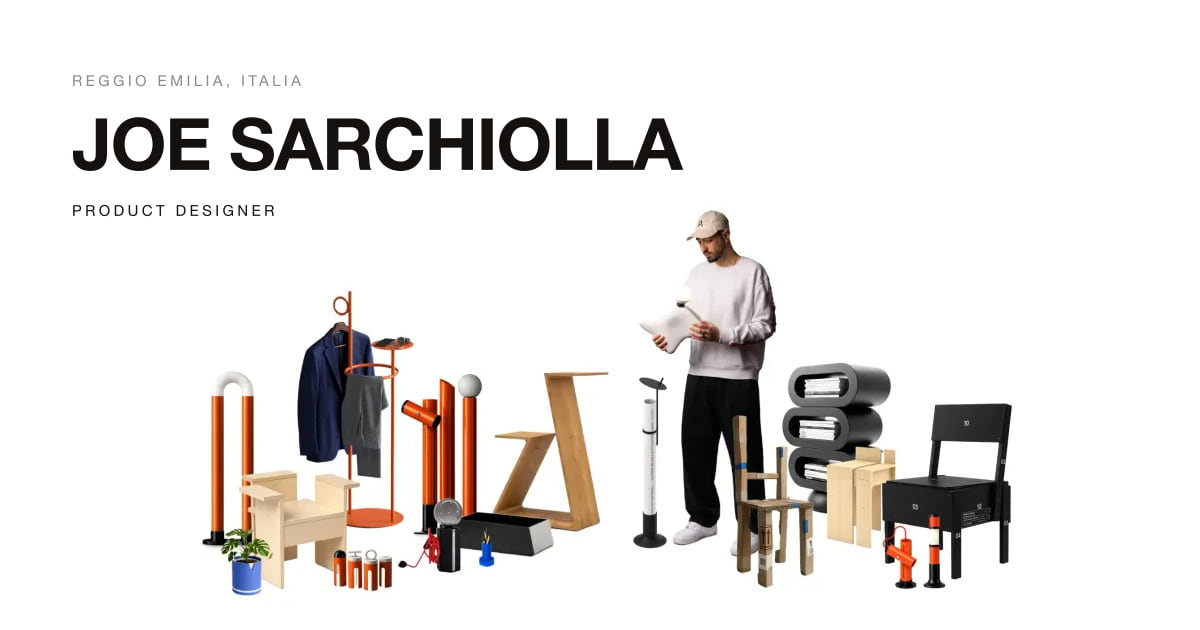
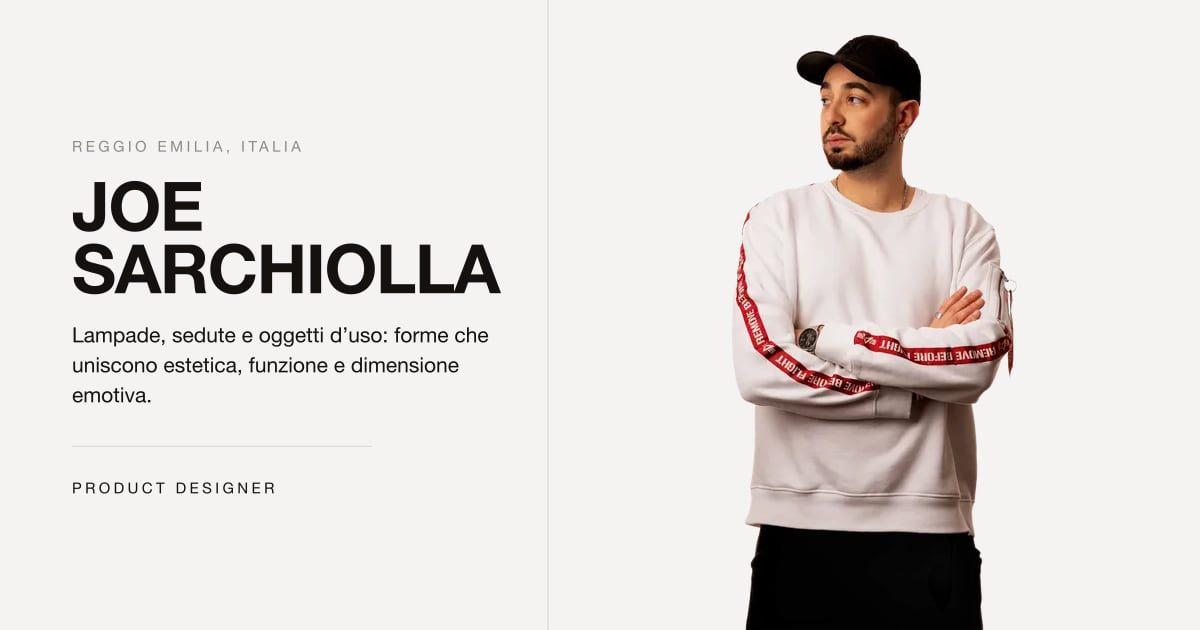
chore: update

diff --git a/scripts/og-image.js b/scripts/og-image.js
@@ -59,19 +59,38 @@ const ADV = {
   0: 556, 1: 556, 2: 556, 3: 556, 4: 556, 5: 556, 6: 556, 7: 556, 8: 556, 9: 556,
 }
 
+/*
+ * Le stesse misure in Helvetica regular, minuscole comprese: la riga di
+ * descrizione non è un titolo, si scrive come si parla e va a capo su parole
+ * normali. Con la tabella del grassetto maiuscolo andrebbe a capo troppo
+ * presto, lasciando righe corte in mezzo al vuoto.
+ */
+const ADV_TESTO = {
+  a: 556, b: 556, c: 500, d: 556, e: 556, f: 278, g: 556, h: 556, i: 222,
+  j: 222, k: 500, l: 222, m: 833, n: 556, o: 556, p: 556, q: 556, r: 333,
+  s: 500, t: 278, u: 556, v: 500, w: 722, x: 500, y: 500, z: 500,
+  à: 556, è: 556, é: 556, ì: 556, ò: 556, ù: 556,
+  A: 667, B: 667, C: 722, D: 722, E: 667, F: 611, G: 778, H: 722, I: 278,
+  J: 500, K: 667, L: 556, M: 833, N: 722, O: 778, P: 667, Q: 778, R: 722,
+  S: 667, T: 611, U: 722, V: 667, W: 944, X: 667, Y: 667, Z: 611,
+  ' ': 278, '.': 278, ',': 278, ':': 278, ';': 278, '·': 350, '-': 333,
+  '–': 556, '’': 191, '(': 333, ')': 333,
+  0: 556, 1: 556, 2: 556, 3: 556, 4: 556, 5: 556, 6: 556, 7: 556, 8: 556, 9: 556,
+}
+
 /* `tracking` in em (negativo = lettere più strette, come nei titoli del sito). */
-function larghezza(testo, fontSize, tracking = 0) {
+function larghezza(testo, fontSize, tracking = 0, tabella = ADV) {
   let em = 0
-  for (const ch of String(testo)) em += (ADV[ch] ?? 700) / 1000 + tracking
+  for (const ch of String(testo)) em += (tabella[ch] ?? 700) / 1000 + tracking
   return em * fontSize
 }
 
-function aCapo(testo, fontSize, maxW, tracking) {
+function aCapo(testo, fontSize, maxW, tracking, tabella = ADV) {
   const righe = []
   let corrente = ''
   for (const parola of String(testo).split(/\s+/)) {
     const prova = corrente ? `${corrente} ${parola}` : parola
-    if (corrente && larghezza(prova, fontSize, tracking) > maxW) {
+    if (corrente && larghezza(prova, fontSize, tracking, tabella) > maxW) {
       righe.push(corrente)
       corrente = parola
     } else {
@@ -105,32 +124,60 @@ function occhiello(testo, x, y, colore = MUTED) {
 
 /* ---------------------------------------------------------------------------
  * Impianto 1 — testo a sinistra, immagine contenuta a destra.
- * Usato dalle schede progetto e da "Chi sono".
+ * Usato dalle schede progetto, da "Chi sono" e dalla home.
+ *
+ * `descrizione` è facoltativa: una o due righe fra il titolo e il filetto, per
+ * dire in chiaro di cosa si tratta. La porta la home, dove l'anteprima del
+ * link è la prima cosa che si vede del lavoro; le schede no, che il titolo
+ * del progetto e la sua foto bastano.
  * ------------------------------------------------------------------------- */
-async function schedaConImmagine({ sorgente, categoria, titolo, coda, dest }) {
+async function schedaConImmagine({
+  sorgente,
+  categoria,
+  titolo,
+  descrizione,
+  coda,
+  ancoraInBasso = false,
+  dest,
+}) {
   const TESTO_X = 72
   const TESTO_MAX = 452
   const BOX = { x: 596, y: 46, w: 556, h: 538 } // area dell'immagine
 
-  const { size, righe, tracking } = titoloAdattato(titolo.toUpperCase(), { maxW: TESTO_MAX })
+  const { size, righe, tracking } = titoloAdattato(titolo.toUpperCase(), {
+    maxW: TESTO_MAX,
+    // Con la descrizione sotto, il titolo lascia spazio invece di prendersi
+    // tutta l'altezza: due righe al massimo, corpo un po' più contenuto.
+    ...(descrizione ? { maxRighe: 2, max: 68 } : null),
+  })
+
+  const DESC_SIZE = 21
+  const DESC_INTERLINEA = 30
+  const righeDesc = descrizione
+    ? aCapo(descrizione, DESC_SIZE, TESTO_MAX, 0, ADV_TESTO)
+    : []
+  const altezzaDesc = righeDesc.length
+    ? 34 + (righeDesc.length - 1) * DESC_INTERLINEA + DESC_SIZE * 0.72
+    : 0
 
   /*
    * Ritmo verticale. Le altezze si calcolano tutte prima, così il blocco
-   * (occhiello · titolo · filetto · firma) può essere centrato sull'altezza
-   * che occupa davvero: un titolo su tre righe scende quanto serve senza
-   * scavalcare l'occhiello.
+   * (occhiello · titolo · descrizione · filetto · firma) può essere centrato
+   * sull'altezza che occupa davvero: un titolo su tre righe scende quanto
+   * serve senza scavalcare l'occhiello.
    * `capH` è l'altezza delle maiuscole: in un testo SVG la y è la linea di
    * base, non il bordo superiore.
    */
   const capH = size * 0.72
   const interlinea = size * 0.92
   const altezzaTitolo = (righe.length - 1) * interlinea + capH
-  const blocco = 15 + 30 + altezzaTitolo + 44 + 32 + 15
+  const blocco = 15 + 30 + altezzaTitolo + altezzaDesc + 44 + 32 + 15
 
   let y = (H - blocco) / 2
   const occhielloY = y + 15
   const primaBaseline = y + 15 + 30 + capH
-  const filettoY = y + 15 + 30 + altezzaTitolo + 44
+  const primaDesc = y + 15 + 30 + altezzaTitolo + 34 + DESC_SIZE * 0.72
+  const filettoY = y + 15 + 30 + altezzaTitolo + altezzaDesc + 44
   const codaY = filettoY + 32 + 15
 
   const righeSvg = righe
@@ -142,22 +189,47 @@ async function schedaConImmagine({ sorgente, categoria, titolo, coda, dest }) {
     )
     .join('\n')
 
+  const descSvg = righeDesc
+    .map(
+      (r, i) =>
+        `<text x="${TESTO_X}" y="${primaDesc + i * DESC_INTERLINEA}" font-family="${FONT}"
+          font-size="${DESC_SIZE}" font-weight="400" fill="${INK}">${esc(r)}</text>`,
+    )
+    .join('\n')
+
   const svg = `<svg xmlns="http://www.w3.org/2000/svg" width="${W}" height="${H}">
     <rect width="${W}" height="${H}" fill="${PAPER}"/>
     ${occhiello(categoria, TESTO_X, occhielloY)}
     ${righeSvg}
+    ${descSvg}
     <line x1="${TESTO_X}" y1="${filettoY}" x2="${TESTO_X + 300}" y2="${filettoY}" stroke="${LINE}" stroke-width="1"/>
     ${occhiello(coda, TESTO_X, codaY, INK)}
     <line x1="${BOX.x - 48}" y1="0" x2="${BOX.x - 48}" y2="${H}" stroke="${LINE}" stroke-width="1"/>
   </svg>`
 
-  // `contain` su fondo carta: l'immagine entra intera, mai tagliata.
-  const immagine = await sharp(sorgente)
-    .resize(BOX.w, BOX.h, { fit: 'inside', withoutEnlargement: false })
-    .toBuffer({ resolveWithObject: true })
+  /*
+   * `contain` su fondo carta: l'immagine entra intera, mai tagliata.
+   *
+   * Il ritratto scontornato fa eccezione (`ancoraInBasso`): nell'originale la
+   * figura è già tagliata alle gambe, e centrata galleggerebbe a mezz'aria con
+   * un taglio netto in mezzo alla carta. Appoggiata al bordo inferiore, il
+   * taglio finisce fuori dalla cornice e la figura sta in piedi. Prima si
+   * toglie il vuoto trasparente attorno, altrimenti a scendere sarebbe il
+   * margine e non Joe.
+   */
+  const immagine = ancoraInBasso
+    ? await sharp(sorgente)
+        .trim({ threshold: 1 })
+        .resize(BOX.w, H - 34, { fit: 'inside' })
+        .toBuffer({ resolveWithObject: true })
+    : await sharp(sorgente)
+        .resize(BOX.w, BOX.h, { fit: 'inside', withoutEnlargement: false })
+        .toBuffer({ resolveWithObject: true })
 
   const left = BOX.x + Math.round((BOX.w - immagine.info.width) / 2)
-  const top = BOX.y + Math.round((BOX.h - immagine.info.height) / 2)
+  const top = ancoraInBasso
+    ? H - immagine.info.height
+    : BOX.y + Math.round((BOX.h - immagine.info.height) / 2)
 
   await sharp(Buffer.from(svg))
     .composite([{ input: immagine.data, left, top }])
@@ -233,12 +305,20 @@ const PERIODO = periodoArchivio
 const firma = `${profile.displayName} · ${profile.role}`
 const generati = []
 
-/* Home */
-await schedaPiena({
-  sorgente: path.join(root, 'public/images/home/family-band.webp'),
-  occhielloTesto: profile.place,
+/*
+ * Home — il biglietto da visita. È il link che si condivide per primo, quindi
+ * porta la persona e non il catalogo: il ritratto scontornato (lo stesso di
+ * "Chi sono") a destra, e a sinistra nome, mestiere e una riga su cosa nasce
+ * dal lavoro. La famiglia di prodotti resta l'anteprima dell'archivio, che è
+ * la pagina dove quei prodotti si guardano davvero.
+ */
+await schedaConImmagine({
+  sorgente: path.join(root, 'public', about.photos.hero.src),
+  categoria: profile.place,
   titolo: profile.displayName,
+  descrizione: profile.sintesi,
   coda: profile.role,
+  ancoraInBasso: true,
   dest: path.join(outDir, 'home.jpg'),
 })
 generati.push('home.jpg')

diff --git a/src/seo.js b/src/seo.js
@@ -165,7 +165,7 @@ export function metaForRoute(route) {
       title: `Pagina non trovata · ${FIRMA}`,
       description: `L'indirizzo non corrisponde a nessuna pagina del sito di ${FIRMA}.`,
       image: ogImage('home'),
-      imageAlt: `La famiglia di prodotti disegnati da ${profile.displayName}`,
+      imageAlt: about.photos.hero.alt,
       type: 'website',
       noindex: true,
     }
@@ -177,7 +177,7 @@ export function metaForRoute(route) {
     description: `${FIRMA}, ${profile.role} a ${profile.place}. Portfolio ${PERIODO}: prodotto, arredo, packaging e grafica.`,
     canonical: `${SITE}/`,
     image: ogImage('home'),
-    imageAlt: `La famiglia di prodotti disegnati da ${profile.displayName}`,
+    imageAlt: about.photos.hero.alt,
     type: 'website',
   }
 }

diff --git a/src/data/siteData.js b/src/data/siteData.js
@@ -21,6 +21,11 @@ export const profile = {
   emailHref: 'https://mail.google.com/mail/?view=cm&fs=1&to=joe.artedesign@gmail.com',
   manifesto:
     'L’ispirazione arriva dall’arte, dalla moda e dalla grafica, e da lì prende forma il prodotto. La ricerca è sempre quella della forma che non ha bisogno di parole.',
+  // Una riga sola su cosa nasce dal lavoro: sta nell'anteprima social della
+  // home (`scripts/og-image.js`), dove c'è spazio per una frase e non per il
+  // manifesto intero.
+  sintesi:
+    'Lampade, sedute e oggetti d’uso: forme che uniscono estetica, funzione e dimensione emotiva.',
 }
 
 /* Decorativo, quindi `alt` vuoto: la sfocatura la mette il CSS. */
